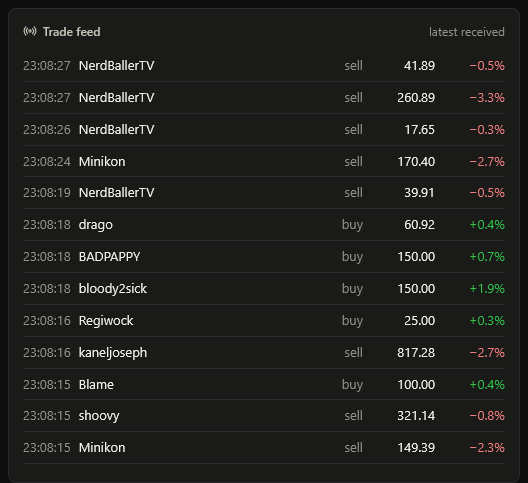
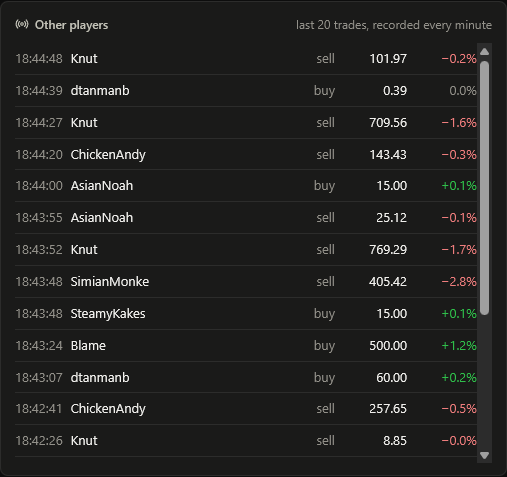
Fill the full basket with spare cash, keep hand trades out of deposits, show other players' last 20 trades
Positions are checked every 2 s and the tape is recorded every minute.

diff --git a/dashboard.html b/dashboard.html
@@ -458,7 +458,7 @@ function render() {
   set('m-down', card('trending-down', 'Top losers', '15 min', mv(M.down.filter((s) => s.ch15 < 0))));
   set('m-whales', card('flame', 'Whales', 'largest trades, 1 h', M.whales.length ? `<div class="tbl-wrap" tabindex="0"><table><thead><tr><th scope="col">Time</th><th scope="col">Stock</th><th scope="col">Side</th><th scope="col" class="num">Amount</th><th scope="col" class="num">Impact</th></tr></thead><tbody>${M.whales.map((r) => `<tr><td class="mut">${hm(r.t)}</td><td>${esc(r.name)}</td><td>${r.side === 'b' ? 'buy' : 'sell'}</td><td class="num">${cx(r.c)}</td><td class="num ${cls(r.imp)}">${pct(r.imp)}</td></tr>`).join('')}</tbody></table></div>` : empty('No trade this hour')));
   set('m-heat', card('layers', 'Market map', 'alive stocks by price, color = 1 h change', M.heat.length ? `<div class="heat">${M.heat.map((s) => `<div style="background:${heatBg(s.ch60)}" data-tip="${esc(`${s.name}\nprice ${cx(s.p)}\n15 min ${pct(s.ch15)}\n1 h ${pct(s.ch60)}`)}"><b>${esc(s.name)}</b><span>${cx(s.p)} · ${pct(s.ch60, 0)}</span></div>`).join('')}</div><div class="legend"><span><i style="background:var(--div-neg);height:8px;width:8px"></i>down</span><span><i style="background:var(--div-mid);height:8px;width:8px"></i>flat</span><span><i style="background:var(--div-pos);height:8px;width:8px"></i>up</span></div>` : empty('Market unavailable')));
-  set('m-feed', card('radio', 'Trade feed', 'latest received', M.feed.length ? `<div class="list" tabindex="0" style="max-height:420px;overflow:auto">${M.feed.map((r) => `<div class="li"><time>${hms(r.t)}</time><span class="grow">${esc(r.name)}</span><span class="mut">${r.side === 'b' ? 'buy' : 'sell'}</span><span style="width:64px;text-align:right;font-variant-numeric:tabular-nums">${cx(r.c)}</span><span class="${cls(r.imp)}" style="width:62px;text-align:right;font-variant-numeric:tabular-nums">${pct(r.imp)}</span></div>`).join('')}</div>` : empty('No trade received')));
+  set('m-feed', card('radio', 'Other players', 'last 20 trades, recorded every minute', M.feed.length ? `<div class="list" tabindex="0" style="max-height:420px;overflow:auto">${M.feed.map((r) => `<div class="li"><time>${hms(r.t)}</time><span class="grow">${esc(r.name)}</span><span class="mut">${r.side === 'b' ? 'buy' : 'sell'}</span><span style="width:64px;text-align:right;font-variant-numeric:tabular-nums">${cx(r.c)}</span><span class="${cls(r.imp)}" style="width:62px;text-align:right;font-variant-numeric:tabular-nums">${pct(r.imp)}</span></div>`).join('')}</div>` : empty('No trade received')));
 
   // Game
   set('m-alive', card('heart-pulse', 'Contestants', 'map health feed', `<div class="hero"><span class="big" style="font-size:36px">${G.alive}<small>alive</small></span><span class="note">${G.tracked} tracked, ${G.deaths} deaths logged</span><span class="note">${G.outside.length} outside the zone right now</span></div>`));

diff --git a/README.md b/README.md
@@ -19,7 +19,7 @@ protects positions you open by hand, tunes itself, announces its trades in Kick 
 
 ## What the engine does
 
-Positions every 5 s, map (health, deaths) every 3 s, market every 15 s, one order per scan. The buy reason's first word names the strategy.
+Positions every 2 s (exits at death or low HP within about 2 s of the map showing it), map (health, deaths) every 3 s, market every 15 s, one order per scan. The buy reason's first word names the strategy.
 
 | Strategy | Buys | Sells |
 |---|---|---|
@@ -42,6 +42,10 @@ Positions every 5 s, map (health, deaths) every 3 s, market every 15 s, one orde
   of many settings on a small sample overfits: the kill switches are the safety net. `params.json` is hot-reloaded.
   `"topForce": true` there keeps the top basket on: self-tuning and its kill switch no longer change it (set on
   2026-10-19 to put idle cash to work, while the 24 h replay had it at -59 to -166 Cx and the last 12 h at +180 to +270).
+  `"topKeep": 0.1` (set the same day): once every basket slot is held, cash above 10% of the total value goes into the
+  smallest healthy basket position, `topfill` in the log, one order per scan. Measured before: on 19/10 every stock live
+  24 h earlier, dead ones sold 2 min after their death, gained 16% on average (+19% over 12 h, +9% over 6 h), and the
+  survivors' prices rose a median 4.6% in the 30 min after each of the 44 deaths.
 - **Supervisor**: the scheduled task runs a parent process that restarts the engine if it crashes or hangs (no
   successful call for 5 min, or a session lost for 3 min).
 
@@ -171,7 +175,7 @@ down, session lost or PC off) or ffmpeg is down, and one when it is back.
 
 Open http://127.0.0.1:7788 while the engine runs (port `DASH_PORT` in `.env`). The supervisor serves it, so it stays
 up while the engine restarts and cannot stop trading if it fails (`dashboard_err` in the log if it cannot start). It is
-read-only and local (bound to 127.0.0.1), built from local files only: `live.json`, rewritten by the engine every 5 s
+read-only and local (bound to 127.0.0.1), built from local files only: `live.json`, rewritten by the engine every 2 s
 (portfolio, last scan, contestant health and roster, API state), `trades.jsonl`, the tape and `data/equity.jsonl` (one
 total value point a minute). Every change reaches open tabs within 2 s (server-sent events). It works at phone width.
 
@@ -241,7 +245,7 @@ rejected) and the closed round trips.
 ### Market
 
 Breadth over 24 h, trades per minute, active wallets, volume per 10 minutes, top gainers and losers, the largest
-trades of the hour, a heat map of every live stock and the trade feed.
+trades of the hour, a heat map of every live stock and the other players' last 20 trades (this account's own trades left out).
 
 ![Market](docs/screenshots/market.png)
 
@@ -261,9 +265,9 @@ trades of the hour, a heat map of every live stock and the trade feed.
 
 ![Market heat map, hover tooltip](docs/screenshots/heat-map-tooltip.png)
 
-*Trade feed*
+*Other players: last 20 trades*
 
-![Trade feed](docs/screenshots/trade-feed.png)
+![Other players: last 20 trades](docs/screenshots/trade-feed.png)
 
 ### Game
 
@@ -322,8 +326,8 @@ Kick announcements, data file sizes and the event log (filter: orders, tuning, h
 
 ### Notes
 
-Times show in the browser's time zone. The tape arrives in 3-minute batches, so the trade feed lags by up to 3 minutes;
-prices and positions refresh every 5 seconds. A gap of more than 15 minutes in the value curve is drawn as a gap.
+Times show in the browser's time zone. The tape arrives in 1-minute batches, so the trade feed lags by up to a minute;
+prices and positions refresh every 2 seconds. A gap of more than 15 minutes in the value curve is drawn as a gap.
 
 `node dashboard.mjs` runs it on its own, for working on the page; edits to `dashboard.html` reload open tabs by
 themselves. `node scripts/screenshots.mjs` retakes the 33 dashboard screenshots above from the running dashboard
@@ -334,11 +338,11 @@ hides stock ids and the site host, and stops if any of them is still on the page
 
 `node status.mjs` prints deaths, breadth, trades and PnL per strategy from local files. `trades.jsonl` is the event
 log: `start`, `restart`, `watchdog`, `stock-market/buy|sell` (with `why`), `kick_say`, `auth_lost` (log in again),
-`blocked`, `revive`, `pump_skip`, `cash_in` / `cash_out` (the Cx Bucks balance moved without an order, e.g. chat earnings: summed in `state.json` as deposits and left out of the gain since the start), `<strategy>_off` / `_on`, `tune_crash|surv|top`, `params_reload`, `stream_err`, `save_err`, `dashboard_err`. Telegram (optional):
+`blocked`, `revive`, `pump_skip`, `cash_in` / `cash_out` (the Cx Bucks balance moved without an order, e.g. chat earnings: summed in `state.json` as deposits and left out of the gain since the start), `manual_trade` (a trade made by hand on the site: its cash is taken back out of the deposits, so it is neither a deposit nor a withdrawal), `<strategy>_off` / `_on`, `tune_crash|surv|top`, `params_reload`, `stream_err`, `save_err`, `dashboard_err`. Telegram (optional):
 lost session, long API block, strategy switched off or on, new params, daily PnL.
 
 `node check.mjs` must print `check ok` after any change: replays, tuners, kill-switch tally, watchdog, health
-decoder, revives (dead until revived, dead again after a new death), the top basket's pump filter, chat and stream text (every alive contestant on a STATUS page; basket tracker, value chart, mascot mood, speech bubble, every fun fact shown whole, bot log), cookie sorter, engine loop scheduling (no
+decoder, revives (dead until revived, dead again after a new death), the top basket's pump filter and fill (smallest position first, cash reserve kept), the balance a restart starts from (a deposit never counted twice), trades made by hand kept out of the deposits, chat and stream text (every alive contestant on a STATUS page; basket tracker, value chart, mascot mood, speech bubble, every fun fact shown whole, bot log), cookie sorter, engine loop scheduling (no
 periodic job hidden behind a comment), each with a control case that must fail.
 
 ## Safety rules
